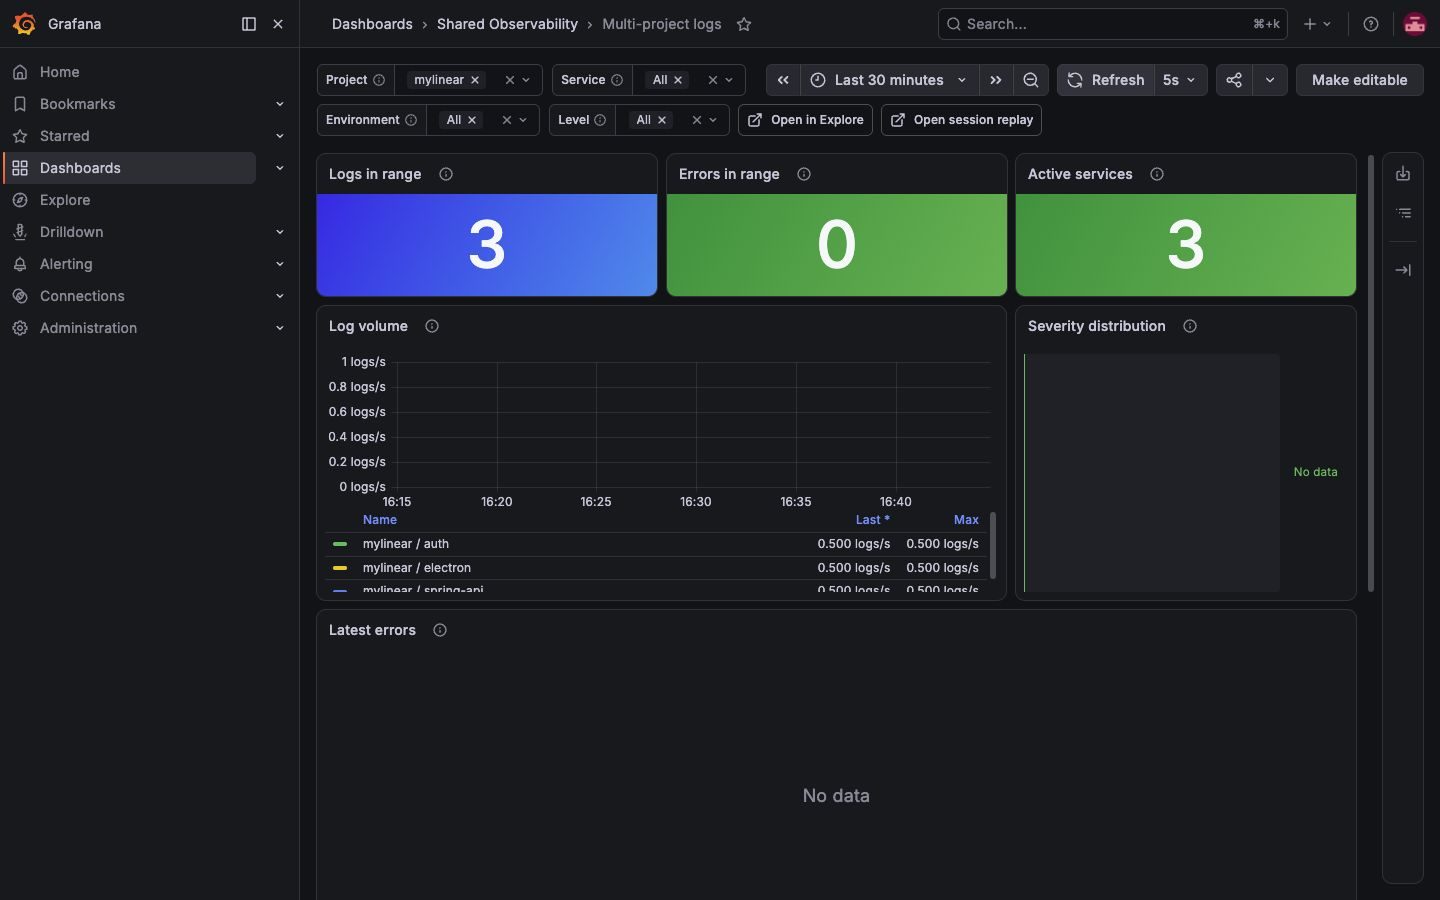
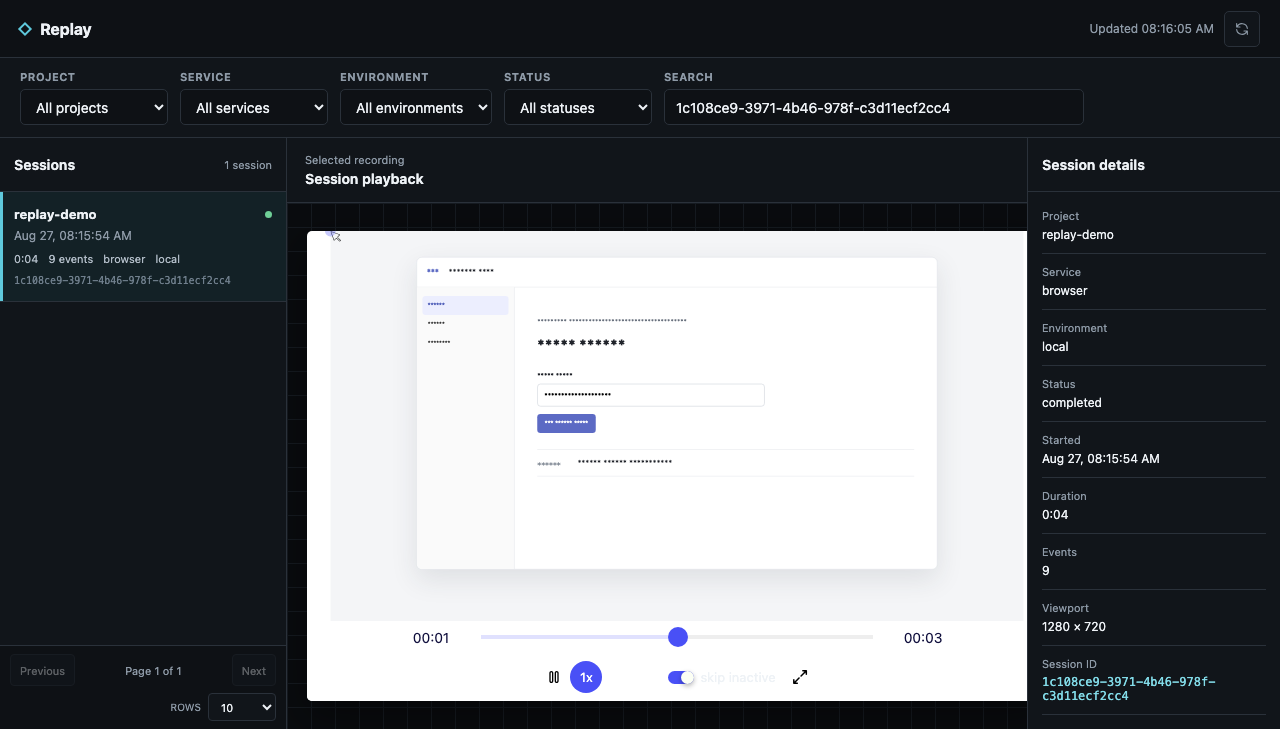
feat: feature replay viewer in portfolio

diff --git a/src/productStories.js b/src/productStories.js
@@ -115,26 +115,27 @@ export const PRODUCT_STORIES = {
     promise: "Move from a product symptom to correlated logs and replay evidence in one investigation flow.",
     facts: [
       { value: "OTLP", label: "shared ingest contract" },
-      { value: "4", label: "product filter dimensions" },
-      { value: "Grafana + Loki", label: "query surface" },
-      { value: "Self-hosted", label: "data boundary" },
+      { value: "4", label: "replay filter dimensions" },
+      { value: "10 · 20 · 50", label: "server page sizes" },
+      { value: "rrweb", label: "sandboxed DOM playback" },
     ],
     journey: [
       { title: "Instrument a product", description: "Send structured OTLP logs with project, service, environment, and level attributes." },
       { title: "Narrow the signal", description: "Use the provisioned Grafana dashboard to filter one product or service without changing queries." },
-      { title: "Inspect the failure", description: "Compare log volume, active services, severity, recent errors, and the complete event stream." },
-      { title: "Replay the session", description: "Open the linked replay viewer and search recordings by product, session, route, or correlated identifiers." },
+      { title: "Open the replay catalog", description: "Carry the current product, service, environment, session, and time range into a separate authenticated viewer." },
+      { title: "Find and replay", description: "Filter by status, search recording metadata, page through results, then replay the masked DOM session and return to its logs." },
     ],
     capabilities: [
       { title: "Multi-product isolation", description: "A shared label contract keeps product, service, environment, and severity available as dashboard filters." },
-      { title: "Provisioned investigation", description: "Grafana starts with the Loki data source, dashboard variables, panels, and replay link already connected." },
-      { title: "Searchable replay", description: "Session recordings are ingested behind a key, viewed behind authentication, and searchable within product boundaries." },
+      { title: "Provisioned correlation", description: "Grafana starts with the Loki data source, dashboard variables, panels, and a context-preserving replay link already connected." },
+      { title: "Independent replay catalog", description: "Project, service, environment, and status facets combine with text search, time overlap, and server-side pagination." },
+      { title: "Isolated playback", description: "The rrweb player remains outside Grafana so viewer authentication and iframe sandbox policy stay explicit." },
       { title: "Secret-safe setup", description: "Generated local credentials stay outside Git while checked-in examples and validation scripts keep onboarding reproducible." },
     ],
     evidence: [
       "The checked-in Compose stack runs Grafana, Loki, Alloy, and the replay service as one reusable project.",
-      "Smoke coverage verifies log ingestion, provisioned dashboards, authenticated replay reads, and log-to-replay correlation.",
-      "The captured Grafana dashboard shows mylinear filtered to auth, Electron, and Spring API services from synthetic OTLP events.",
+      "Contract coverage verifies query facets, time overlap, search, pagination metadata, provisioned Grafana navigation, and secret boundaries.",
+      "Chromium E2E records a real DOM session, pages through a 12-session catalog, filters and searches it, replays the masked result, and verifies the correlated-log link on desktop and mobile.",
     ],
     boundary:
       "The current deployment is a single-machine self-hosted foundation. High availability, object-storage retention, multi-tenant authorization, alert routing, and production capacity claims remain outside the verified scope.",

diff --git a/src/App.jsx b/src/App.jsx
@@ -182,14 +182,14 @@ const PROJECTS = [
     storyId: "observability-platform",
     title: "Observability Platform",
     description:
-      "A reusable self-hosted observability stack that unifies product-scoped OTLP logs, Grafana dashboards, and searchable session replay.",
-    tech: "Grafana · Loki · Alloy · OpenTelemetry",
+      "A reusable self-hosted observability stack with product-scoped OTLP logs, Grafana correlation, and an independent searchable replay viewer.",
+    tech: "Grafana · Loki · Alloy · OpenTelemetry · rrweb",
     image: "/observability-platform.png",
-    imageAlt: "Grafana multi-project logs dashboard filtered to mylinear services",
+    imageAlt: "Independent session replay viewer with product filters, search, pagination, playback, and session details",
     details: [
       { icon: ChartLineUp, label: "Project-scoped dashboards" },
-      { icon: FilmSlate, label: "Searchable session replay" },
-      { icon: ShieldCheck, label: "Secret-safe local setup" },
+      { icon: FilmSlate, label: "Filter · Search · Pagination" },
+      { icon: ShieldCheck, label: "Sandboxed DOM replay" },
     ],
   },
   {

diff --git a/docs/product-spec.md b/docs/product-spec.md
@@ -46,7 +46,7 @@ Unknown or empty hashes fall back to My Info. Left and right arrow keys move foc
 - Each card includes a visual, description, technology summary, three capability notes, an embedded Product overview action, and a secondary source action only when the repository is public.
 - Product overview replaces every live-preview/open action. It opens a large in-app dialog that visualizes the user problem, product promise, target audience, four-step journey, current capabilities, implementation evidence, and honest boundary from checked-in project sources.
 - Present Taedong as an Expo/React Native tennis community with native maps, NTRP partner and club discovery, meetup creation, and a Node.js API. Show its verified native-build status without inventing a public repository or deployment link.
-- Present Observability Platform with its actual Grafana screenshot, shared OTLP contract, product/service/environment/level filters, and searchable session replay. Do not expose its private repository as a public source action.
+- Present Observability Platform with its actual independent Replay Viewer screenshot, shared OTLP contract, Grafana correlation link, project/service/environment/status filters, text search, server pagination, and sandboxed DOM playback. Do not expose its private repository as a public source action.
 - Present Vertex Studio CAD as a C++ WebAssembly and direct WebGPU CAD/DCC workspace. Describe its in-repository geometry engine accurately as a lightweight parametric analytic-solid kernel rather than a full OCCT-class B-Rep kernel.
 - Do not invent metrics, projects, employers, or deployment URLs.
 
@@ -73,7 +73,7 @@ Unknown or empty hashes fall back to My Info. Left and right arrow keys move foc
 | PORT-01 | Only the six confirmed portfolio projects render | Product Spec + E2E |
 | PORT-02 | Taedong shows its native stack and verified-build status without a fabricated public link | Product Spec + E2E |
 | PORT-03 | Every portfolio card opens its checked-in Product overview dialog and has no live-preview action | Product Spec + E2E |
-| PORT-04 | Observability Platform uses the captured Grafana dashboard and does not expose a private source link | Product Spec + E2E |
+| PORT-04 | Observability Platform uses the captured independent Replay Viewer, describes filter/search/pagination, and does not expose a private source link | Product Spec + E2E |
 | RESP-01 | The Experience page has no horizontal overflow at 390×844 | E2E |
 | RESP-02 | The Portfolio page has no horizontal overflow at 390×844 | E2E |
 | HOST-01 | Production build emits the Sites client, server, and hosting files | Sites worker test |
